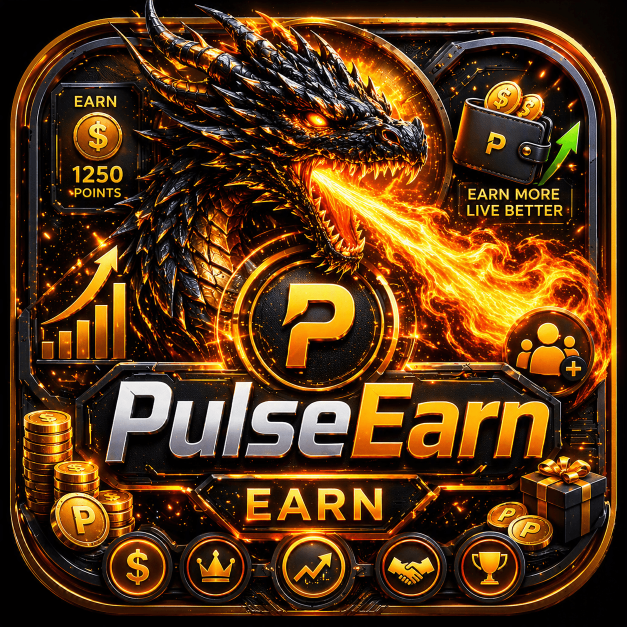
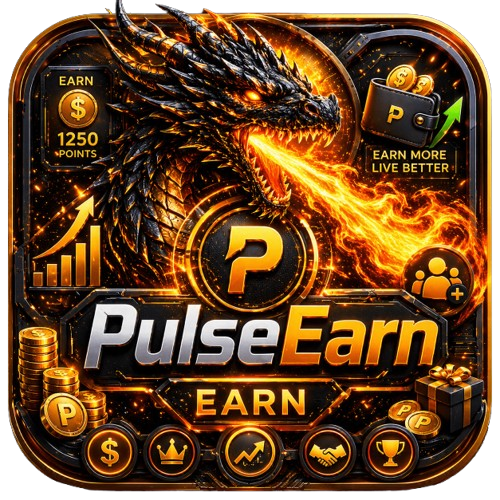
earner-engine

diff --git a/PULSE-BROWSER/PBFrontPage.html b/PULSE-BROWSER/PBFrontPage.html
@@ -11,6 +11,7 @@
   <!-- Preload Logo -->
   <link rel="preload" fetchpriority="high" as="video" href="PulseWorldOS.mp4" type="video/mp4">
   <link rel="preload" as="image" href="PulseWorldEntrancePulseGPUPulseEarn.png" />
+  <link rel="preload" as="image" href="PulseEarn.png" />
   <!-- <link rel="preload" as="image" href="PulseWorldSplash512.png" /> -->
 
   <style>
@@ -118,8 +119,8 @@
       margin: 14px 14px;
       top: 0;
       left: 300px;
-      width: 100%;
-      height: 100%;
+      height: 280px;
+      width: clamp(450px, 12vw, 500px);
       display: flex;
       justify-content: center;
       align-items: center;
@@ -135,13 +136,9 @@
 
     /* ⭐ Big favicon */
     .earner-engine {
-      background-image: url("PulseEarn.png");
-      background-repeat: no-repeat;
-      background-size: 35%;        /* 1/3 the size */
-      background-position: center; /* centered perfectly */
+      width: 35%;
+      height: 35%;
       border-radius: 40px;
-      height: 280px;
-      width: clamp(450px, 12vw, 500px);
       object-fit: contain;
       filter: drop-shadow(0 0 10px #00aaffaa);
     }
@@ -1230,9 +1227,8 @@
     <!-- Left panel content -->
   </div>
   <div class="earner-panel" id="earner-panel">
-    <div class="earner-engine" id="earner-engine">
+      <img class="earner-engine" src="PulseEarn.png" alt="Earner Engine Logo" />
       <!-- Earner panel content -->
-    </div>
   </div>
   <div class="side-panel left-panel" id="side-panel left-panel">
     <div class="cache-panel" id="cache-panel">
